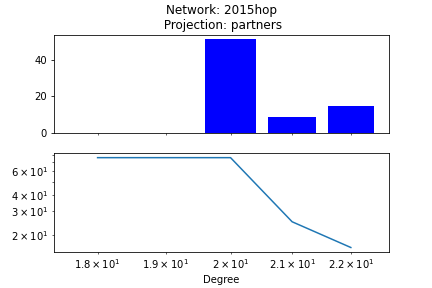
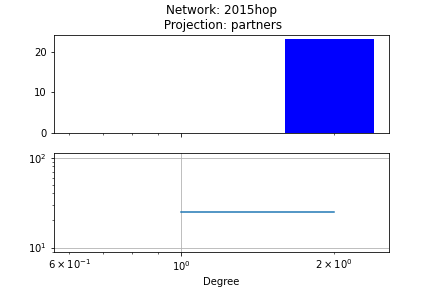
Project: Made improvments to centratility/degree dists and began working on visulaizations

diff --git a/Project/TBA_Network_Analysis.py b/Project/TBA_Network_Analysis.py
@@ -231,14 +231,39 @@ class TBA_Network:
         
         # Projection Graphs (Generated and saved as attributes)
         print('Generating Projections')
-        self.GraphProjections() #Default Projection
+        self.GraphProjections(NodeMeta = self.nodeMeta) #Default Projection
         
         
     
     # Projection Graphs
+    def GetProjection(self, projection = 'none', qual_elim_only = 0):
+        if projection != 'none':
+            alliancePartners = 0
+            weightCalc = 'default'
+            if projection in {'match','matches','default'}:
+                pass # Default values
+            elif projection in {'partners'}:
+                alliancePartners = 1
+            elif projection in {'opponents'}:
+                alliancePartners = -1
+            elif projection in {'allianceScore'}:
+                alliancePartners = 1
+                weightCalc = 'score'
+            else:
+                print('using default projection')
+            G = self.GraphProjections(alliancePartners,
+                                      weightCalc,
+                                      qual_elim_only)
+        else:
+            G = self.G
+            return G
+    
+    
+    
     def GraphProjections(self, alliancePartners = 0,
                          weightCalc = 'default',
                          qual_elim_only = 0,
+                         NodeMeta = ['nickname', 'name', 'state_prov', 'country'],
                          ):
         """
         GRAPHPROJECTIONS generates a projection of the nx.multigraph as
@@ -279,6 +304,11 @@ class TBA_Network:
                 attrName += '_partners'
             elif alliancePartners == -1:
                 attrName += '_opponents'
+        if qual_elim_only != 0:
+            if qual_elim_only == -1:
+                attrName += '_quals'
+            elif qual_elim_only == 1:
+                attrName += '_elims'
         
         projectionFilename = self.filename + '_' + attrName[2:] + '.gml'
         # Test and load if exists
@@ -300,23 +330,34 @@ class TBA_Network:
             print('Generating new projection:')
             # Initialize Graph object
             G_projection = nx.Graph(alliancePartners = alliancePartners,
-                                    weightCalc = weightCalc)
+                                    weightCalc = weightCalc,
+                                    qual_elim_only = qual_elim_only)
             
             # Edge Tuple Generation
             G_projection_tuples = list()
             for team1, team2 in itertools.combinations(self.G.nodes(),2):
                 if self.G.has_edge(team1, team2):
                     weight = self.WeightCalc(team1, team2,
-                                             alliancePartners, weightCalc)
+                                             alliancePartners = alliancePartners,
+                                             weightCalc = weightCalc,
+                                             qual_elim_only = qual_elim_only)
                     if weight >= 1:
                         G_projection_tuples.append((team1, team2, weight))
                         
             # Generate Edges
             G_projection.add_weighted_edges_from(G_projection_tuples)
             
+            # Insert attributes
+            for nodeMeta in NodeMeta:
+                nx.set_node_attributes(G_projection,
+                                       nx.get_node_attributes(self.G, nodeMeta),
+                                       nodeMeta)
+                # for team in G_projection.nodes():
+                #     G_projection[team][attrName] = Attr[team]
+            
             # Save Projection Graph
             print('Saving Projection to: ', projectionFilename)
-            nx.write_gml(projectionFilename)
+            nx.write_gml(G_projection, projectionFilename)
             
             # Set as attribute
             setattr(self, attrName, G_projection)
@@ -363,7 +404,8 @@ class TBA_Network:
         
         matches = self.G[team1][team2]
         keys = list(matches)
-        
+        print('here')
+        print(keys)
         # Qual/Elim
         if alliancePartners != 0:
             if alliancePartners == 1:
@@ -373,16 +415,19 @@ class TBA_Network:
                 keys = [key for key in keys if
                         {matches[key]['alliancePartners']} <= {'opponent'}]
 
-
+        
         if qual_elim_only != 0:
+            
+            print(keys)
+            for key in keys:print({matches[key]['comp_level']})
+            
             if qual_elim_only == 1:
-                keys = [key for key in list(matches) if
-                        {matches[key]['comp_level']} <= {'qf1','sf1','f1'}]
+                keys = [key for key in keys if
+                        {matches[key]['comp_level']} <= {'qf','sf','f'}]
             elif qual_elim_only == -1:
-                keys = [key for key in list(matches) if
-                        {matches[key]['comp_level']} <= {'q'}]
-        else:
-            keys = list(matches)
+                keys = [key for key in keys if
+                        {matches[key]['comp_level']} <= {'qm'}]
+            print(keys)
                   
         if len(keys) == 0: return 0
         
@@ -410,11 +455,6 @@ class TBA_Network:
         
         else:
             print('not coded yet')    
-
-
-    # Save and Import Network
-    def ImportGML(filename):
-        pass
 
 
 
@@ -567,8 +607,10 @@ class TBA_Network:
         else:
             G = self.G
         
-        
-        diameter = nx.diameter(G)
+        try:
+            diameter = nx.diameter(G)
+        except:
+            diameter = '\infty'
         
         return diameter
     
@@ -716,7 +758,72 @@ class TBA_Network:
         plt.savefig('fig/' + 'DegreeDist_' 
                     + self.filename[17:] + '_' + str(projection))
         
+     
+    # Visualization
+    def DrawGraph(self, projection = 'none', qual_elim_only = 0):
+        """
         
+
+        Parameters
+        ----------
+        projection : str, optional
+            Graph Projection to Plot.
+            The default is 'none'.
+        qual_elim_only : int
+            Indication of if a match type should be restricted
+                -1 = include only quals
+                0 = include all matches
+                1 = include only elims
+
+        Returns
+        -------
+        None.
+
+        """
+        
+        
+        if str(ax) == -1:
+            fig, ax = plt.subplots()
+        
+        G_proj = self.GraphProjections()
+        
+        dseq = self.DegreeSequence(projection = projection,
+                                   qual_elim_only = qual_elim_only)
+        dseq = sorted([d for n, d in dseq], reverse=True)
+        ddist = self.DegreeDist(projection = projection,
+                                qual_elim_only = qual_elim_only)
+       
+        cdist = [ddist[k:].sum()  for k in range(len(ddist))] 
+        
+        kmin = int(0.9 * min(dseq)) # not all the way to zero
+        kmax = int(max(dseq))
+        
+        # Assign Values for Ploting
+        xvalues = range(kmin,kmax);
+        barheights = ddist[kmin:kmax] # Degree Dist
+        yvalues = cdist[kmin:kmax]; # Cumulative Dist
+        
+        fig, axes = plt.subplots(2,1,sharex=True)
+        
+        # Plot 
+        axes[0].bar(xvalues,barheights, width=0.8, bottom=0, color='b')
+        # plt.autoscale('True')
+        
+        # Plot cdist
+        axes[1].loglog(xvalues,yvalues)
+        plt.grid(True)
+        
+        # Title and labels
+        axes[1].set_xlabel('Degree')
+        
+        axes[0].set_title('Network: '
+                          + self.filename[17:] + '\n'
+                          + ' Projection: '
+                          + projection)
+        
+        # Save Fig
+        plt.savefig('fig/' + 'DegreeDist_' 
+                    + self.filename[17:] + '_' + str(projection))
     
     
     

diff --git a/Project/test.py b/Project/test.py
@@ -24,7 +24,7 @@ if generateNewGraphs:
     event_network = True
     
     year = '2015'
-    event = '2015cmp'
+    event = '2019cmpmi'
     
     ## Build Network
     tic = time.time()
@@ -37,18 +37,20 @@ if generateNewGraphs:
 # dseq = tbaNetwork.DegreeSequence(projection = 'matches')#projection = 'partners')
 # ddist = tbaNetwork.DegreeDist('matches')
 
-tbaNetwork.PlotDDist(projection = 'partners')
-dseq_score = tbaNetwork.DegreeSequence(projection='allianceScore')
-centrality_score = tbaNetwork.Centrality(
-                                         projection = 'default',
-                                         print_top_nodes =20,
-                                         mode = 'eigenvector',
-                                         )
-centrality_test = tbaNetwork.Centrality('frc2826', projection = 'allianceScore')
+# tbaNetwork.PlotDDist(projection = 'partners')
+# dseq_score = tbaNetwork.DegreeSequence(projection='allianceScore')
+# centrality_score = tbaNetwork.Centrality(
+#                                          projection = 'default',
+#                                          print_top_nodes =20,
+#                                          mode = 'eigenvector',
+#                                          )
+# centrality_test = tbaNetwork.Centrality('frc2826', projection = 'allianceScore')
 
 
-
-
+nx.draw(tbaNetwork.GraphProjections(
+                                    alliancePartners=0,
+                                    qual_elim_only=1))
+# 
 
 
 

diff --git a/Project/graph_visualize.py b/Project/graph_visualize.py
@@ -50,9 +50,7 @@ Qual_elim_only = [-1, 0, 1]
 CentralityModes = ['degree', 'eigenvector', 'katz']
 print_top_nodes = 10
 
-print('---------------------------------------------------------------------')
-try: print('Full network diamter = ', tbaNetwork.Diameter())
-except: print('Diameter error... not fully connected components')
+
 print('---------------------------------------------------------------------')
 for projection in Projections:
     for qual_elim_only in Qual_elim_only:
@@ -65,7 +63,7 @@ for projection in Projections:
                              qual_elim_only = qual_elim_only)
         print('Diameter = ', tbaNetwork.Diameter(projection=projection,
                                                  qual_elim_only=qual_elim_only,
-                                                 ))        
+                                                 ))
         print('----------------------------------------------')
         for mode in CentralityModes:
             tbaNetwork.Centrality(projection = projection,
